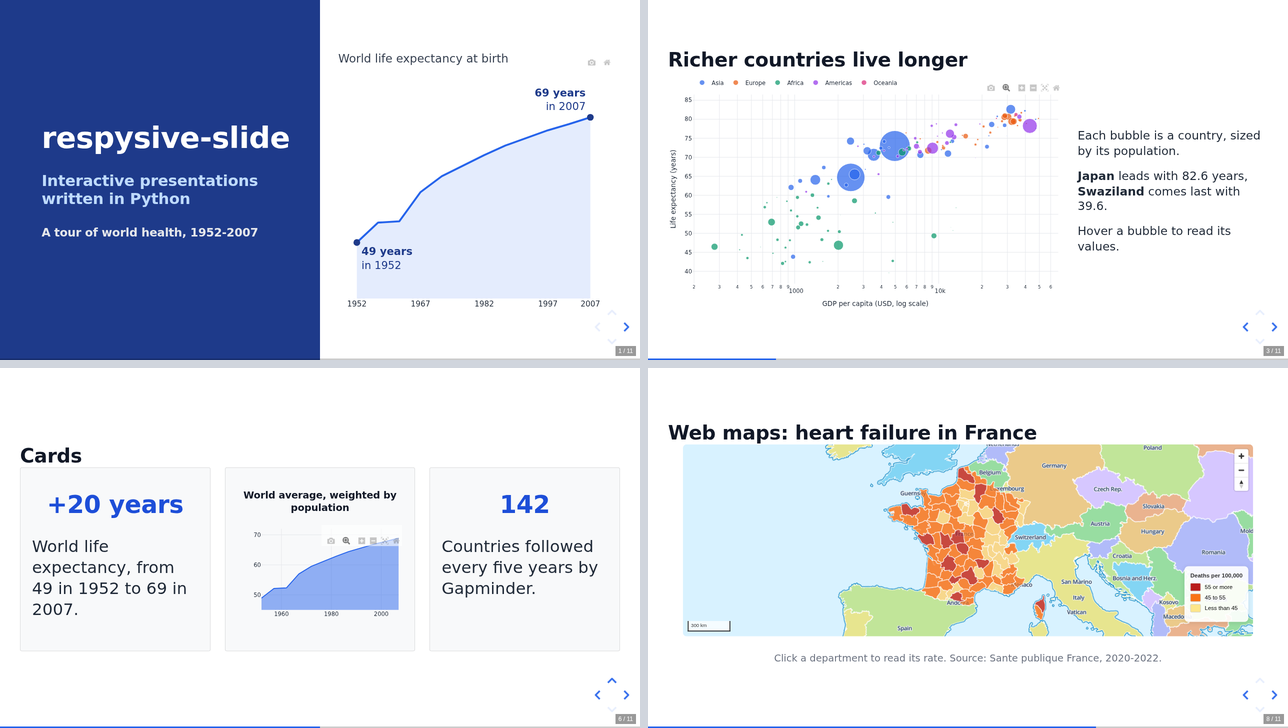
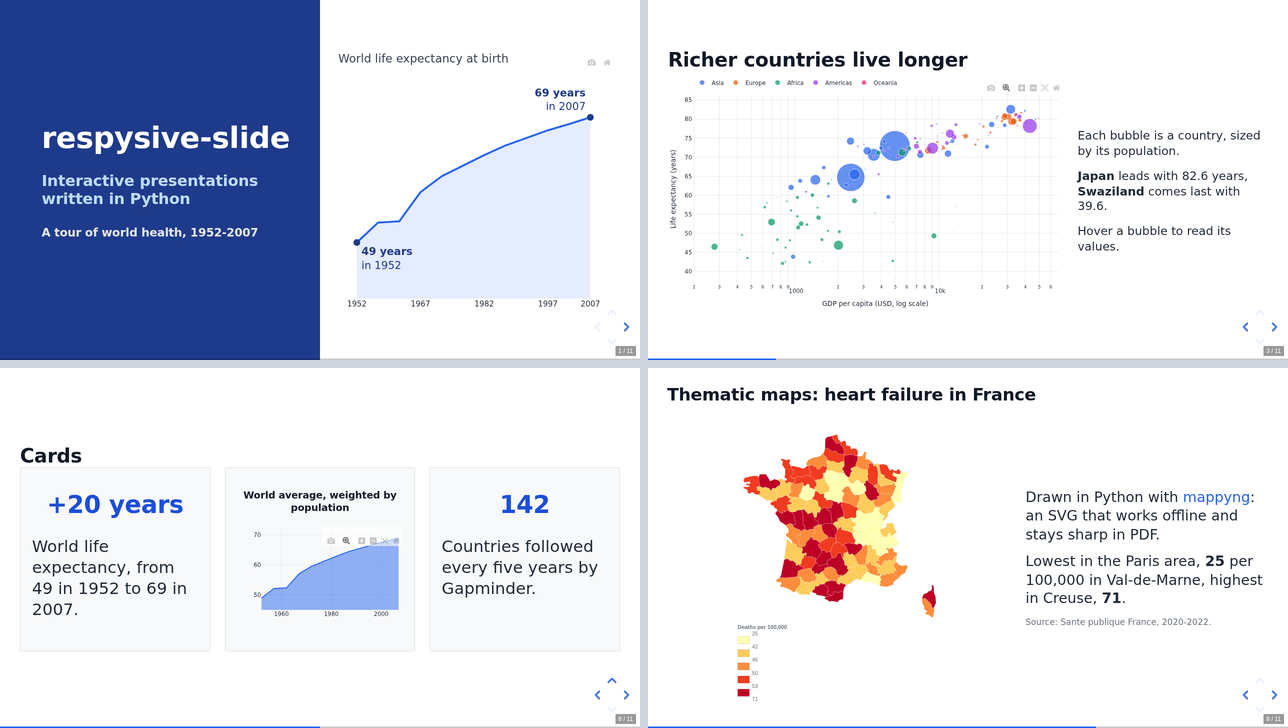
respysive-slide 2.0.1: mappyng maps in the docs, gallery and showcase
mappyng is published on PyPI as mappyng-svg. The maps guide, the maps
gallery example and the showcase deck now draw a mappyng choropleth, a
maps extra installs it, and the old mappyng examples that read files
from a local path are removed.

Changed region(s): [[0.4969, 0.5137, 0.9938, 0.967]]

diff --git a/docs/examples/showcase.py b/docs/examples/showcase.py
@@ -2,22 +2,23 @@
 
 One deck that goes through the main features: title page, Markdown,
 fragments, Plotly, Altair and Matplotlib charts, a table, an equation, cards,
-nested layouts, and web maps. It opens the documentation, is published as
+nested layouts, a mappyng map, and a web map. It opens the documentation, is published as
 ``showcase.html`` next to it, and gives the picture of the README.
 
 Run from this directory: ``python showcase.py`` writes ``showcase.html``.
 """
 
-import json
 from pathlib import Path
 
 import altair as alt
 import matplotlib
 
 matplotlib.use("Agg")
+import mappyng as mp
 import matplotlib.pyplot as plt
 import pandas as pd
 import plotly.express as px
+from mappyng.data import load_france_departments
 from markdown import markdown
 
 from respysive import Column, Presentation, Row, Slide, palette
@@ -240,43 +241,39 @@ layout_slide.add_layout(
     )
 )
 
-# A choropleth web map
-geojson = json.loads((DATA / "france_departments.geojson").read_text())
-rates = rates.set_index("code_dep")
-geojson["features"] = [f for f in geojson["features"] if f["properties"]["code_dep"] in rates.index]
-for feature in geojson["features"]:
-    feature["properties"].update(rates.loc[feature["properties"]["code_dep"]].to_dict())
+# A thematic map drawn in Python with mappyng
+deps = load_france_departments().to_crs(2154).merge(rates, left_on="COD_GEO", right_on="code_dep")
+france = (
+    mp.Map(deps, bbox=[90000, 6040000, 1280000, 7150000], width=600, height=560)
+    + mp.Choropleth(
+        deps,
+        column="taux_mortalite",
+        cmap="YlOrRd",
+        method="Quantiles",
+        num_classes=5,
+        stroke="#ffffff",
+        stroke_width=0.3,
+        legend=mp.Legend("Deaths per 100,000", decimals=0),
+    )
+    + mp.Tooltip(["libgeo", "taux_mortalite"], aliases={"libgeo": "Department", "taux_mortalite": "Rate"})
+)
 
 choropleth = Slide()
-choropleth.add_title("Web maps: heart failure in France")
-choropleth.add_maplibre_choropleth_map(
-    center=[2.5, 46.6],
-    zoom=4,
-    geojson=geojson,
-    color_property="taux_mortalite",
-    color_rules=[
-        {"operator": ">=", "value": 55, "color": "#b91c1c"},
-        {"operator": ">=", "value": 45, "color": "#f97316"},
-        {"operator": "<", "value": 45, "color": "#fde68a"},
-    ],
-    popup="<b>{libgeo}</b><br>{taux_mortalite} per 100,000",
-    legend={
-        "title": "Deaths per 100,000",
-        "choropleth": {
-            "type": "discrete",
-            "items": [
-                {"color": "#b91c1c", "label": "55 or more"},
-                {"color": "#f97316", "label": "45 to 55"},
-                {"color": "#fde68a", "label": "Less than 45"},
-            ],
-        },
-    },
-)
+choropleth.add_title("Thematic maps: heart failure in France")
 choropleth.add_content(
-    ["Click a department to read its rate. Source: Sante publique France, 2020-2022."],
-    styles=[{"font-size": "60%", "text-align": "center", "color": "#6b7280", "margin-top": "12px"}],
+    [
+        france.to_interactive(),
+        markdown(
+            "Drawn in Python with [mappyng](https://fbxyz.github.io/mappyng/): an SVG that works "
+            "offline and stays sharp in PDF.\n\n"
+            "Lowest in the Paris area, **25** per 100,000 in Val-de-Marne, highest in Creuse, **71**."
+        )
+        + '<p style="font-size:60%;color:#6b7280;">Source: Sante publique France, 2020-2022.</p>',
+    ],
+    columns=[7, 5],
+    styles=[None, {"align-self": "center"}],
 )
-choropleth.add_notes("Click a department to read its rate.")
+choropleth.add_notes("Hover a department to read its rate.")
 
 # Proportional circles, with a vertical slide below
 traffic = pd.read_csv(DATA / "paris_africa_air_traffic.csv")

diff --git a/docs/examples/plot_04_maps.py b/docs/examples/plot_04_maps.py
@@ -2,9 +2,9 @@
 Maps
 ====
 
-MapLibre web maps, with tiles, zoom, and pan, which need a network
-connection while the deck is shown. Maps drawn in Python with mappyng
-will be added here once mappyng 2 is published.
+Thematic maps drawn in Python with mappyng, which are SVG and work
+offline, and MapLibre web maps, with tiles, zoom, and pan, which need a
+network connection while the deck is shown.
 
 Data: mortality from heart failure by department (Sante publique France)
 and air passengers between Paris and African cities in 2024 (Eurostat).
@@ -13,7 +13,9 @@ and air passengers between Paris and African cities in 2024 (Eurostat).
 import json
 from pathlib import Path
 
+import mappyng as mp
 import pandas as pd
+from mappyng.data import load_france_departments
 
 from respysive import Presentation, Slide
 
@@ -26,13 +28,45 @@ STYLE = """
 DATA = Path("data")
 
 # %%
+# A choropleth map with mappyng
+# -----------------------------
+#
+# A mappyng ``Map`` is passed to ``add_content`` as it is. ``to_interactive()``
+# adds the tooltips declared with ``mp.Tooltip``.
+
+rates = pd.read_csv(DATA / "cardio_mortalite_dep.csv", dtype={"code_dep": str})
+deps = load_france_departments().to_crs(2154).merge(rates, left_on="COD_GEO", right_on="code_dep")
+svg_map = (
+    mp.Map(deps, bbox=[90000, 6040000, 1280000, 7150000], width=600, height=560)
+    + mp.Choropleth(
+        deps,
+        column="taux_mortalite",
+        cmap="YlOrRd",
+        method="Quantiles",
+        num_classes=5,
+        stroke="#ffffff",
+        stroke_width=0.3,
+        legend=mp.Legend("Deaths per 100,000", decimals=0),
+    )
+    + mp.Tooltip(["libgeo", "taux_mortalite"], aliases={"libgeo": "Department", "taux_mortalite": "Rate"})
+)
+
+svg_slide = Slide()
+svg_slide.add_title("Mortality from heart failure, 2020-2022")
+svg_slide.add_content(
+    [svg_map.to_interactive(), "Lowest in the Paris area, highest in Creuse."],
+    columns=[7, 5],
+    styles=[None, {"align-self": "center"}],
+)
+
+# %%
 # A choropleth map with MapLibre
 # -------------------------------
 #
 # ``color_rules`` are tested in order and the first match gives the colour
 # of each department. The popup template reads the GeoJSON properties.
 
-rates = pd.read_csv(DATA / "cardio_mortalite_dep.csv", dtype={"code_dep": str}).set_index("code_dep")
+rates = rates.set_index("code_dep")
 geojson = json.loads((DATA / "france_departments.geojson").read_text())
 geojson["features"] = [f for f in geojson["features"] if f["properties"]["code_dep"] in rates.index]
 for feature in geojson["features"]:
@@ -85,5 +119,5 @@ web_map.add_maplibre_circles_map(
 
 deck = Presentation()
 deck.add_custom_css(STYLE)
-deck.add_slide([map_slide, web_map])
+deck.add_slide([svg_slide, map_slide, web_map])
 deck.save_html("maps.html", theme="white")

diff --git a/respysive/handlers/mappyng.py b/respysive/handlers/mappyng.py
@@ -8,7 +8,7 @@ from .base import BaseHandler
 class MappyngHandler(BaseHandler):
     """Handler for mappyng ``Map`` and ``InteractiveMap`` objects.
 
-    mappyng (https://codeberg.org/fbxyz/mappyng) is an SVG-native
+    mappyng (https://github.com/fbxyz/mappyng) is an SVG-native
     cartographic library. Two object types are supported:
 
     - ``mappyng.interactive.InteractiveMap``: produced by

diff --git a/respysive/version.py b/respysive/version.py
@@ -1,1 +1,1 @@
-__version__ = "2.0.0"
+__version__ = "2.0.1"

diff --git a/README.md b/README.md
@@ -66,8 +66,8 @@ opens the speaker view.
   images, videos, Plotly, Altair, Matplotlib, pandas tables) and places the items
   side by side. Cards, title pages, and nested layouts with `Row` and `Column`.
 - **Maps**: MapLibre web maps (markers, proportional circles, flows, choropleths)
-  without writing JavaScript. Thematic maps drawn in Python with mappyng are also
-  supported; mappyng 2 will be published soon.
+  without writing JavaScript, and thematic SVG maps drawn in Python with
+  [mappyng](https://fbxyz.github.io/mappyng/) (`pip install mappyng-svg`).
 - **Presenting**: fragments, vertical slides, speaker view with notes, overview,
   touch navigation.
 - **Fitting**: slides have a fixed size, and content taller than the slide is

diff --git a/docs/guides/maps.rst b/docs/guides/maps.rst
@@ -9,17 +9,13 @@ needs a network connection while the deck is shown.
 mappyng
 -------
 
-.. note::
-
-   mappyng 2, the version respysive works with, will be published soon.
-   The example below is shown without its deck until then.
-
 mappyng draws thematic maps (choropleth, proportional symbols, labels,
 insets) from GeoDataFrames. A ``Map`` is passed to ``add_content`` as it
 is, and ``to_interactive()`` adds the tooltips declared with
-``mp.Tooltip``.
+``mp.Tooltip``. mappyng is installed with ``pip install mappyng-svg``
+(`documentation <https://fbxyz.github.io/mappyng/>`_).
 
-.. code-block:: python
+.. respysive-demo::
 
    import pandas as pd
    import mappyng as mp

diff --git a/docs/guides/installation.rst b/docs/guides/installation.rst
@@ -29,8 +29,14 @@ Playwright. PowerPoint also needs ``python-pptx``.
 Without Chromium, ``save_pdf`` and ``save_pptx`` stop with an error that
 gives these two commands.
 
-Maps drawn with mappyng need that package. mappyng 2, the version
-respysive works with, will be published soon. MapLibre maps need nothing more than a network connection when
+Maps drawn with `mappyng <https://fbxyz.github.io/mappyng/>`_ need that
+package:
+
+.. code-block:: bash
+
+   pip install mappyng-svg
+
+MapLibre maps need nothing more than a network connection when
 the deck is shown.
 
 Development version

diff --git a/CHANGELOG.md b/CHANGELOG.md
@@ -1,5 +1,12 @@
 # Changelog
 
+## 2.0.1
+
+- mappyng is published on PyPI as `mappyng-svg`: the documentation, the gallery
+  and the showcase deck now draw a mappyng map, and `pip install
+  "respysive-slide[maps]"` installs it.
+- Two old mappyng examples that read files from a local path are removed.
+
 ## 2.0.0
 
 Version 2 replaces Reveal.js with its own slide runtime. Scripts written for
